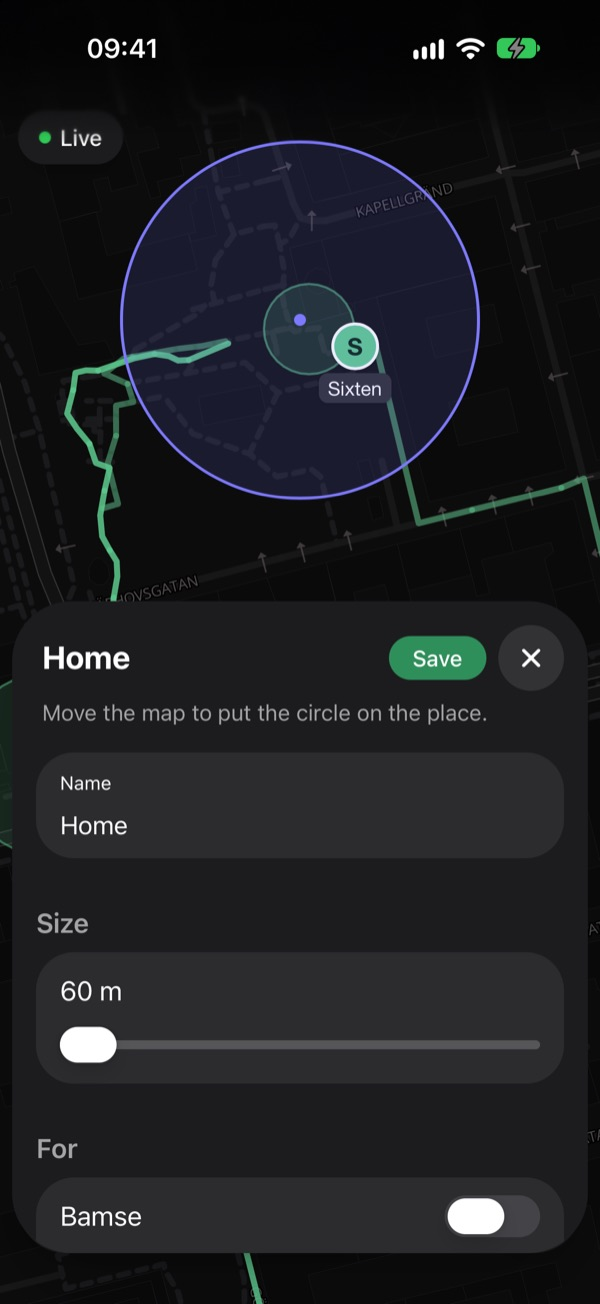
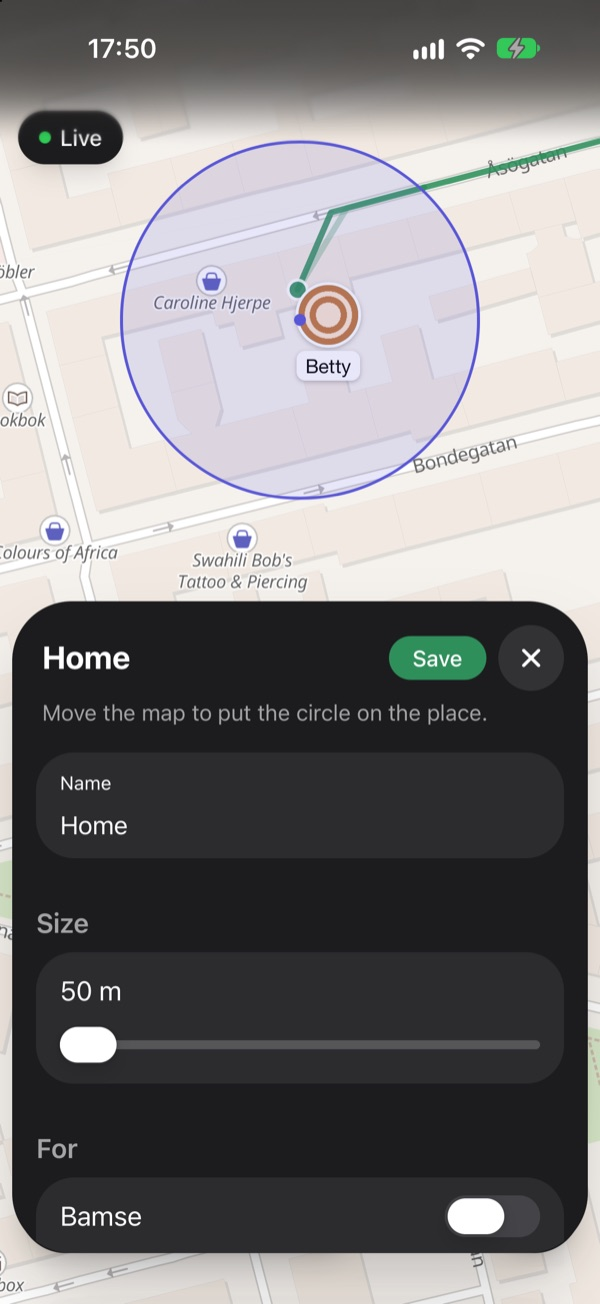
Retake the front page screenshots: Betty's walk on the Bright map
The mock Traccar now has Betty walk round Södermalm from Home every three
hours, along a real route from Valhalla's walking router, and Sixten at
daycare; HOME_SINCE sets where in the walk the mock starts. The
screenshots show her just home, snapped to the streets, light and dark.

diff --git a/src/components/ScreenshotGallery.tsx b/src/components/ScreenshotGallery.tsx
@@ -1,11 +1,12 @@
 /**
  * The front page's screenshots: the app on an iPhone, light or dark to match the visitor's own
  * mode, in a row that scrolls sideways and snaps to each shot. Taken in the iOS Simulator against
- * the mock Traccar (dev/mock-traccar.mjs), so they show made-up assets and places only; the files
- * are in public/screenshots, 600 px wide.
+ * the mock Traccar (dev/mock-traccar.mjs), so they show made-up assets and places only: the Bright
+ * map, Betty just home from her walk, Snap to paths on (Valhalla, MAP_MATCHING_URL). The files are
+ * in public/screenshots, 600 px wide.
  */
 const SHOTS = [
-  { file: 'map', caption: 'Sixten’s walk, snapped to the streets' },
+  { file: 'map', caption: 'Betty’s walk, snapped to the streets' },
   { file: 'details', caption: 'At Home, with arrivals and departures' },
   { file: 'place', caption: 'Placing Home on the map' },
   { file: 'settings', caption: 'Assets, places, alerts and more' },

diff --git a/TODO.md b/TODO.md
@@ -10,13 +10,14 @@ and cleared out now and then.
   2. If good: match ride legs with fixes, route underground and silent legs; only use a result that fits the fixes (as Snap to paths does); behind Snap to paths or a new "Snap rides to tracks" switch
   3. README: compose setup for the server, like Valhalla's
   - Risks: a prototype (pin a version); badly mapped rail in places; parallel tracks (commuter train and metro through central Stockholm) can get the wrong one
+- [x] Stays as dots instead of circles: a dot with a white ring where the asset stayed (bigger the longer), the walks running through them so the trail reads as one path, stays within 40 m sharing a dot. The circles grew far bigger than Home indoors and made the map busy. Released as `:62` (2026-10-11); check on Kofi's real trail
 
 ## Places and alerts
 
 - [x] Steps 1 and 2: places as Traccar geofences: Settings → Places, an editor on the map (circle picker, size 50 m–2 km, which assets), places drawn on the map, "Home" instead of the address in the details card, arrivals and departures from Traccar's events, a banner when one happens while the app is open. Mock Traccar has geofences and events. Released as `:45`; place names as solid indigo pills (14 px, no blurry halo) in `:57` (2026-10-10)
 - [ ] Try places on the real Traccar (`:60`): a Home for Betty, then check her arrivals and departures list (it needs reports allowed for the user) and the banner when she leaves
 - [x] Step 3: alerts with Web Push: Settings → Alerts per phone (leaves/arrives at each place, tracker offline), Traccar's event forwarding to `/hooks/traccar-events`, choices sealed on the devices, VAPID key from SESSION_SECRET. Tested against the mock and Apple's push service with a made-up subscription; not yet on a real iPhone. Released as `:46` (2026-10-10); wording says "device" rather than "phone" (alerts work in desktop browsers too) in `:58` (2026-10-11)
-- [ ] Try alerts on the real iPhone: the test alert works, and so do "Betty leaves Home" and "arrives at Home" (2026-10-11, but twice each, see below). The offline alert hasn't come yet: Traccar only records offline events with `event.status.enable` (off by default since 6.14, now in README → Alerts). Betty showed Offline (the ST-904L hangs up when it sleeps) without an alert: check Traccar's Reports → Events for "Status online/offline"; none means the setting isn't in effect. A Traccar restart marks everything offline without an event, so test with the next sleep (and the 30 min quiet period between offline alerts)
+- [ ] Try alerts on the real iPhone: the test alert works, and so do "Betty leaves Home" and "arrives at Home" (2026-10-11; they came twice, settled in `:61`). The offline alert hasn't come yet: Traccar only records offline events with `event.status.enable` (off by default since 6.14, now in README → Alerts). Betty showed Offline (the ST-904L hangs up when it sleeps) without an alert: check Traccar's Reports → Events for "Status online/offline"; none means the setting isn't in effect. A Traccar restart marks everything offline without an event, so test with the next sleep (and the 30 min quiet period between offline alerts)
 - [x] Place alerts came twice (2026-10-11): real crossings back and forth at the edge of Home, not a bug. Now settled: the first crossing alerts at once, crossings of the same place in the next 10 minutes wait, and one more alert goes out when they end only if the asset ended up on the other side. Released as `:61` (2026-10-11); check on the next walk that leaving and coming home give one alert each
 - [ ] Research alerts on Android: Chrome's push goes through fcm.googleapis.com (allowed), but check Firefox and Samsung Internet's push services, whether the service worker shows the Declarative Web Push message there, whether the installed app is needed, and test on a real Android phone (or an emulator with Google Play services)
 - [ ] Watch for false "left Home" at the edge of a place (ST-904L fixes wander 15–25 m); the position filters below would help
@@ -32,7 +33,8 @@ and cleared out now and then.
 
 - [x] A front page (`/welcome`) with a playful paper-map scene (a dog, a briefcase and a bike as paper cutouts, RAL colours, day and night maps), the title as a paper cutout, and the main features; sign-in on its own page (`/login`); `SIGN_IN_METHODS` (sso, password or both). Released as `:50`; features as a trail of stops on post-it notes in `:51`; cutouts black in production (CSP blocked inline styles) fixed, and a "What is Panopticon?" link on the sign-in page, in `:52`; "or deploy it yourself" (GitHub) under Sign in, in `:53`; a "What it looks like" screenshot gallery (light and dark, from the mock Traccar) in `:54`; a wide-screen layout (side-by-side header, zig-zag trail, all screenshots in a row) in `:55` (2026-10-10)
 - [x] Fixed: with the Auto map style, switching the phone between light and dark crashed the map screen (recolouring while the other style loaded). Released as `:54` (2026-10-10)
-- [ ] Retake the front page's screenshots when the UI changes (iOS Simulator, mock Traccar with MAP_MATCHING_URL for Snap to paths; status bar shows 9:41 while the arrivals list shows evening times)
+- [x] What's drawn on the map (trail, places, markers and their labels) takes the map style's colours, a day or night map, not the device's light or dark mode; the controls around it still follow the device. Released as `:62` (2026-10-11)
+- [x] Retook the front page's screenshots on the Bright map: Betty just home from a 50-minute walk round Södermalm (along real streets, from Valhalla's walking router, snapped with Snap to paths), the stays as dots, her arrivals and departures, the Home place editor and Settings, light and dark (2026-10-11). The mock now has Betty walk from Home every three hours (`HOME_SINCE` sets where in it the mock starts) and Sixten at daycare. Retake them when the UI changes (iOS Simulator; `xcrun simctl status_bar … override --time` to the real time, since the arrivals list shows real times)
 - [x] On wide screens, the cards are side panels (like Apple Maps' sidebar on a Mac): an asset's details and Share on the left, Settings, its pages and the place editor on the right; the place picker's circle centres in the map beside the editor. Released as `:60` (2026-10-11)
 - [x] A new app icon: a folded paper map with a red paper-cutout pin on the app's green (front page style, RAL colours); source in dev/icon-full.svg. Released as `:59` (2026-10-11)
 - [ ] Re-add Panopticon to the iPhone's Home Screen to get the new icon (iOS keeps the old one)

diff --git a/README.md b/README.md
@@ -19,7 +19,7 @@ npm run dev            # http://localhost:3000
 
 `npm run typecheck` checks types; `npm run build && npm start` runs the production build locally.
 
-No Traccar to hand? `node dev/mock-traccar.mjs` runs a stand-in with three made-up assets and two places on port 8082 (Sixten walks a round of real streets on Södermalm). Put
+No Traccar to hand? `node dev/mock-traccar.mjs` runs a stand-in with three made-up assets and two places on port 8082 (Betty goes for a walk on real streets on Södermalm every three hours, and starts just home from one; `HOME_SINCE=-6` starts it six minutes before she's back). Put
 `TRACCAR_URL=http://127.0.0.1:8082` in `.env.development.local` and sign in as `pet@example.com` / `secret`.
 
 ## Configure
